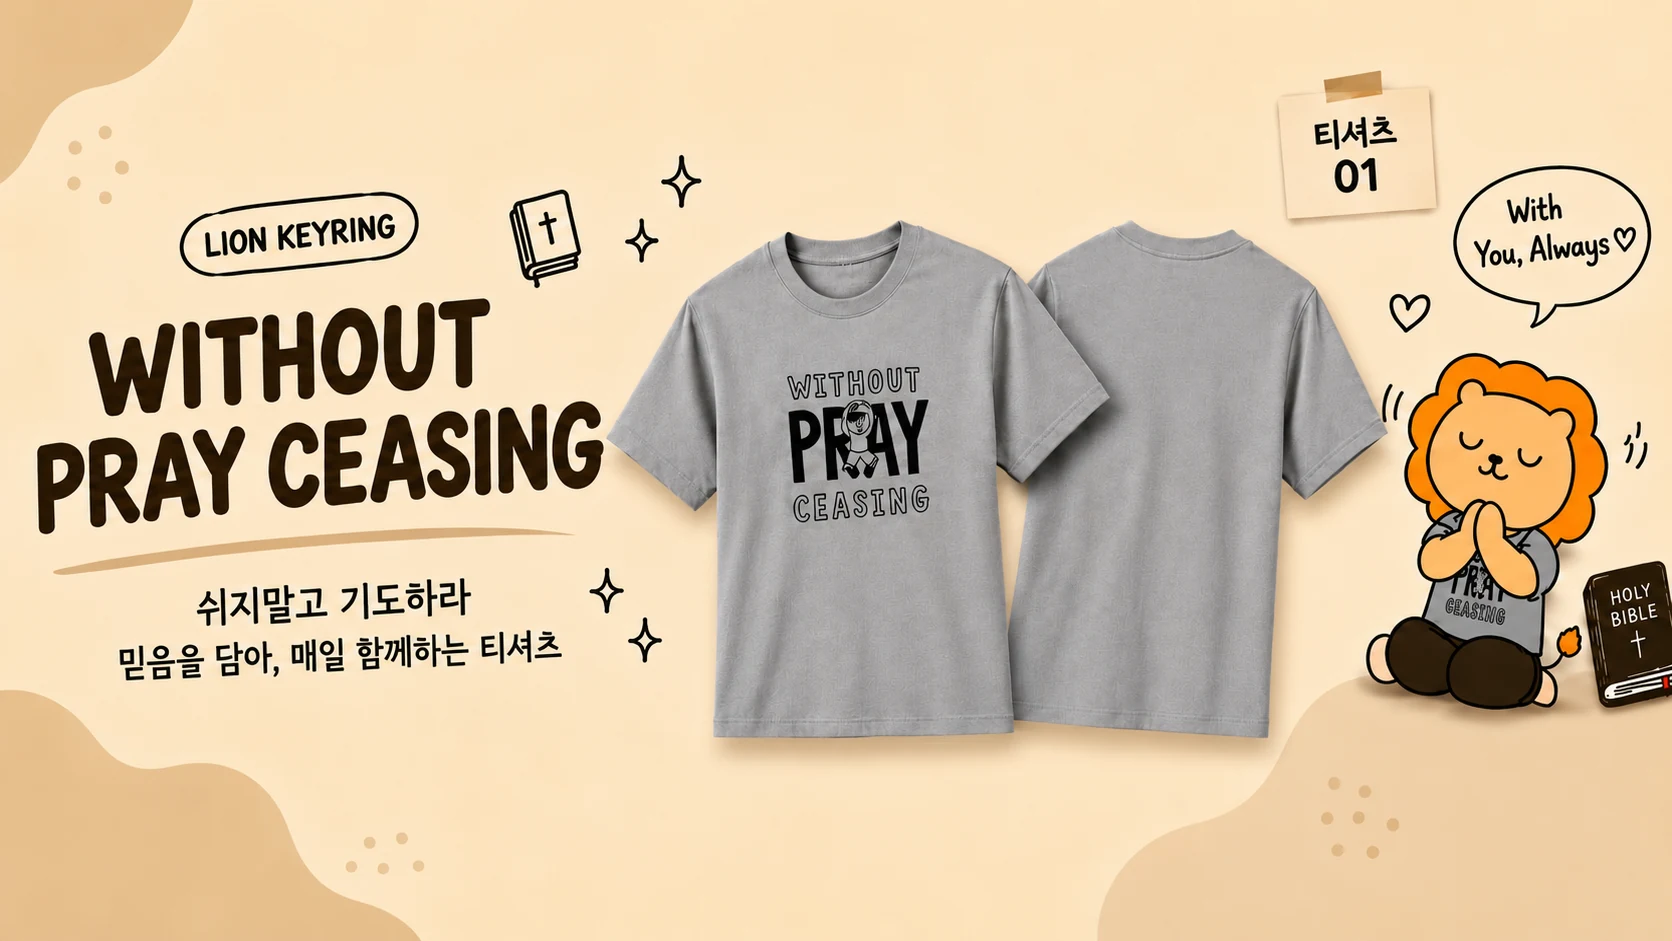
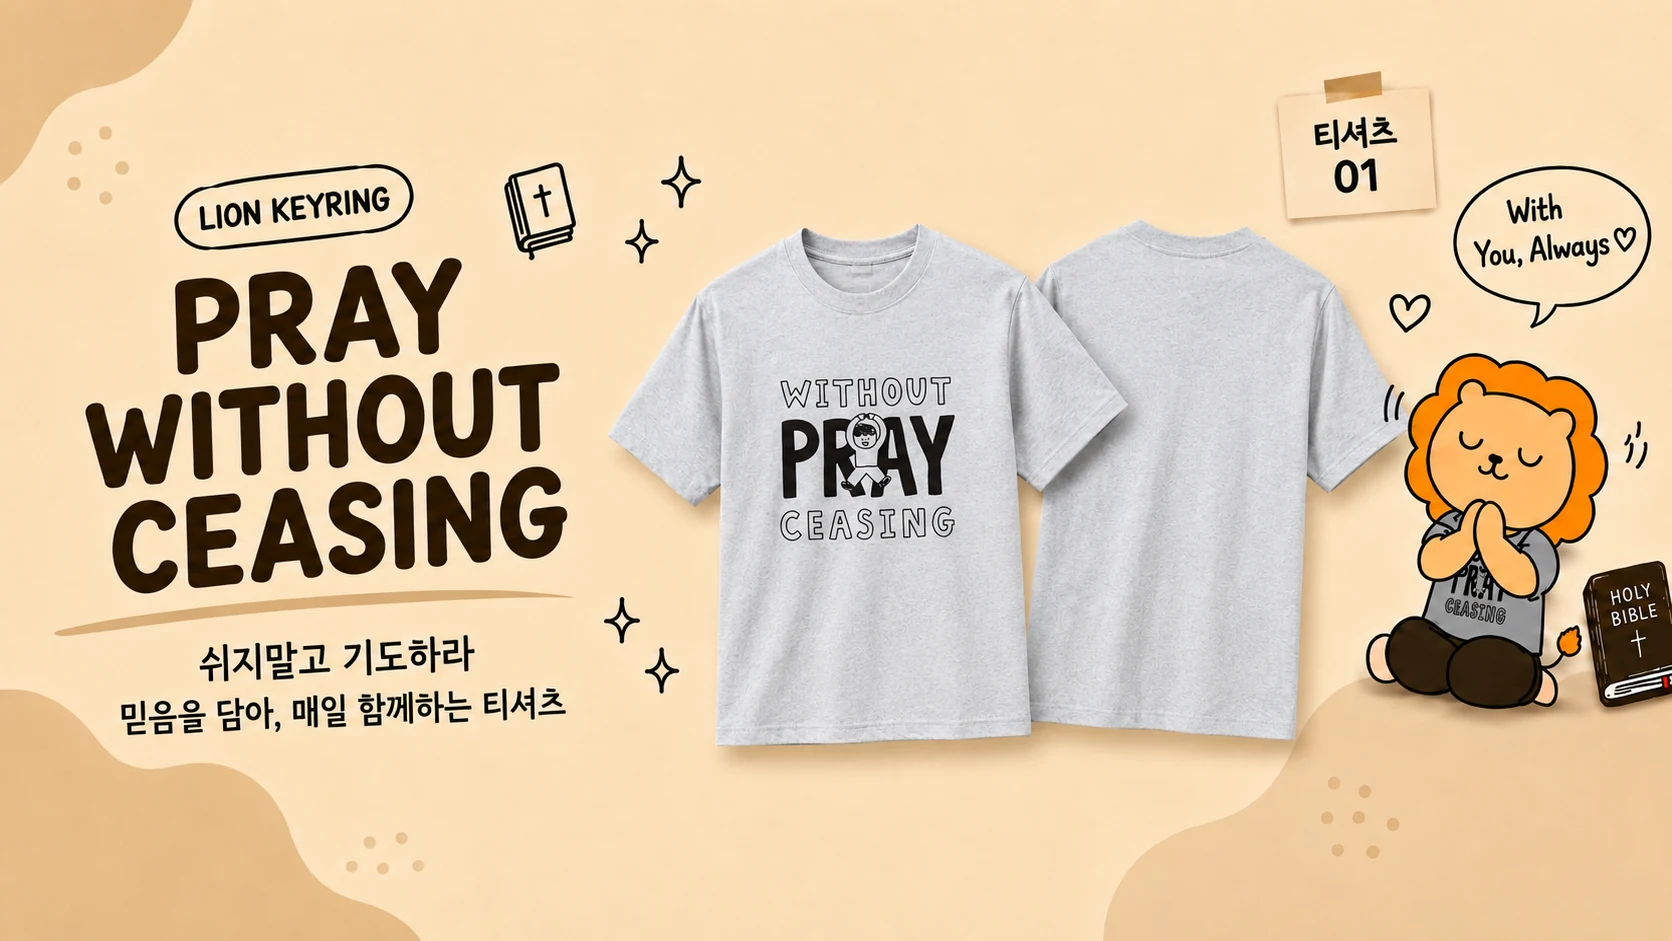
새로 받은 이미지 4종을 각 자리에 교체
- 스플래시: KEYRING & T-SHIRTS 포스터로 교체
  (집회 헌금마련 문구 · 8/23 정식오픈 배지 포함).
  이전과 같은 방식으로 위쪽에 크림색 여백을 덧대 세로 비율 0.52로
  맞춰 좌우 잘림을 줄였고, 배경색을 새 포스터 상단 색으로 조정
- 티셔츠 01 썸네일 · 캐러셀 배너 · 상세 이미지 교체
- 문구가 PRAY WITHOUT CEASING으로 바뀌어 배너 alt 텍스트 수정
- 새 상세 이미지에 시안 안내 문구가 들어 있어 티셔츠 01의
  detailCaption 제거 (같은 문구가 두 번 나오던 것 정리).
  티셔츠 02·03 상세에는 안내가 없어 캡션 유지

Claude-Session: https://claude.ai/code/session_01Tpod5AeQXBsn8j7PCqfRzo

diff --git a/src/data/products.ts b/src/data/products.ts
@@ -185,8 +185,8 @@ export const PRODUCTS: Product[] = [
     category: 'tshirt',
     bg: 'var(--color-surface)',
     photo: '/tshirt-1.webp',
+    // 이 상세 이미지에는 시안 안내 문구가 들어 있어 detailCaption을 따로 붙이지 않는다
     detailImage: '/tshirt-1-detail.webp',
-    detailCaption: TSHIRT_DETAIL_CAPTION,
     specs: [
       { label: '구성', value: '티셔츠 1개' },
       { label: '색상', value: '그레이' },

diff --git a/src/components/HeroBanner.tsx b/src/components/HeroBanner.tsx
@@ -22,7 +22,7 @@ const SLIDES = [
   },
   {
     image: '/banner-tshirt-1.webp',
-    alt: 'WITHOUT PRAY CEASING — 쉬지말고 기도하라 티셔츠',
+    alt: 'PRAY WITHOUT CEASING — 쉬지말고 기도하라 티셔츠',
     href: '/product/tshirt-1',
     width: 1672,
     height: 941,

diff --git a/src/styles/global.css b/src/styles/global.css
@@ -1312,7 +1312,7 @@ svg {
   max-width: 430px;
   overflow: hidden;
   /* 포스터 위쪽 배경과 같은 크림색 — 이미지가 뜨기 전에도 흰 화면이 보이지 않게 */
-  background: #fcf3e9;
+  background: #faede3;
   will-change: opacity, transform;
 }
 
